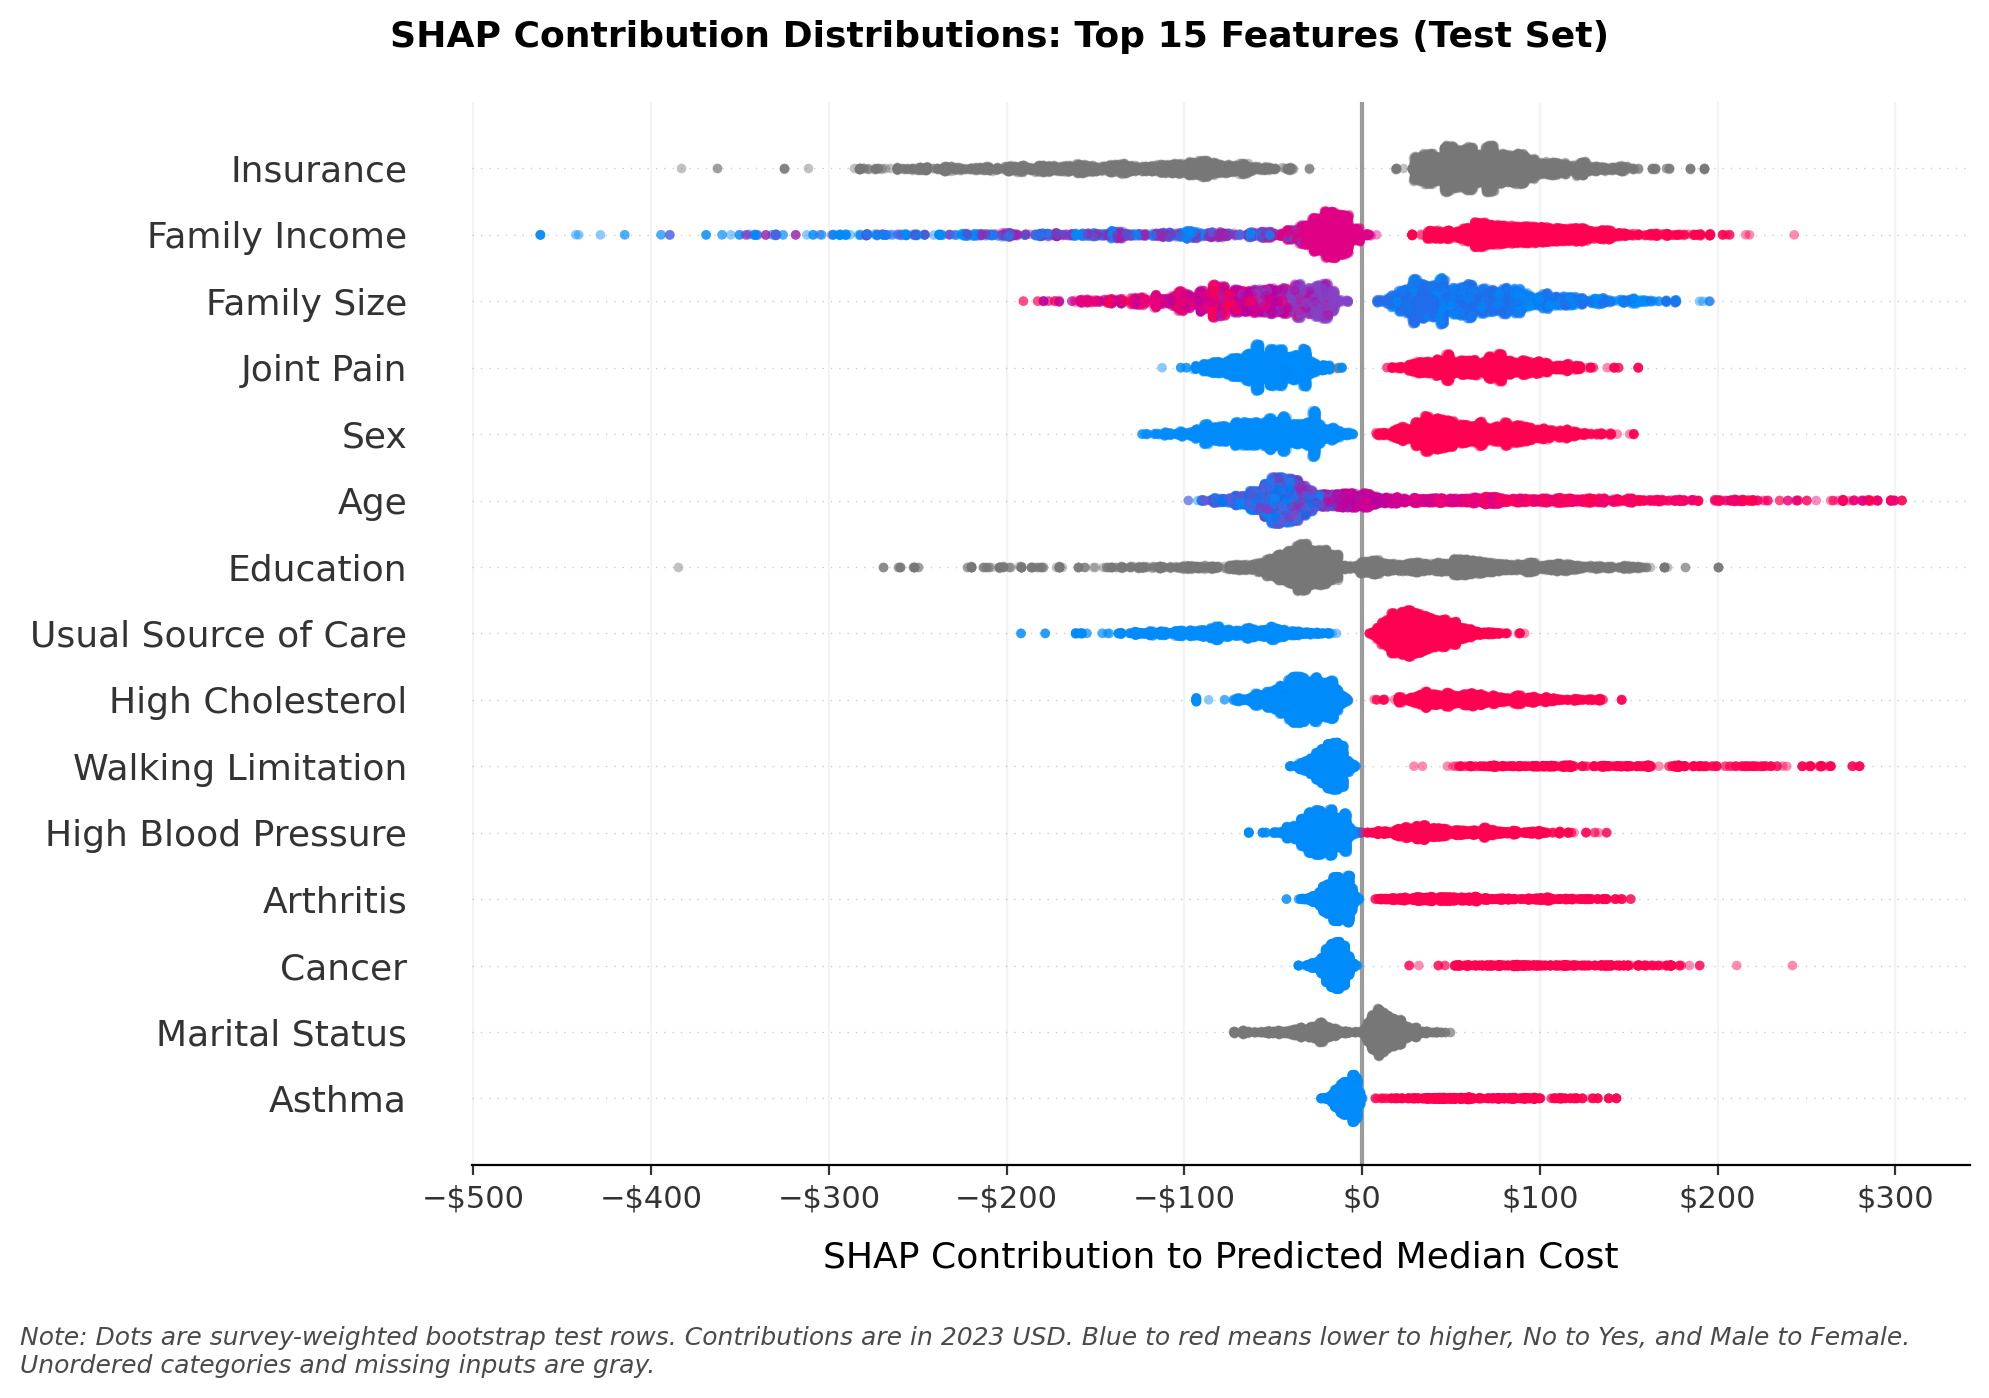
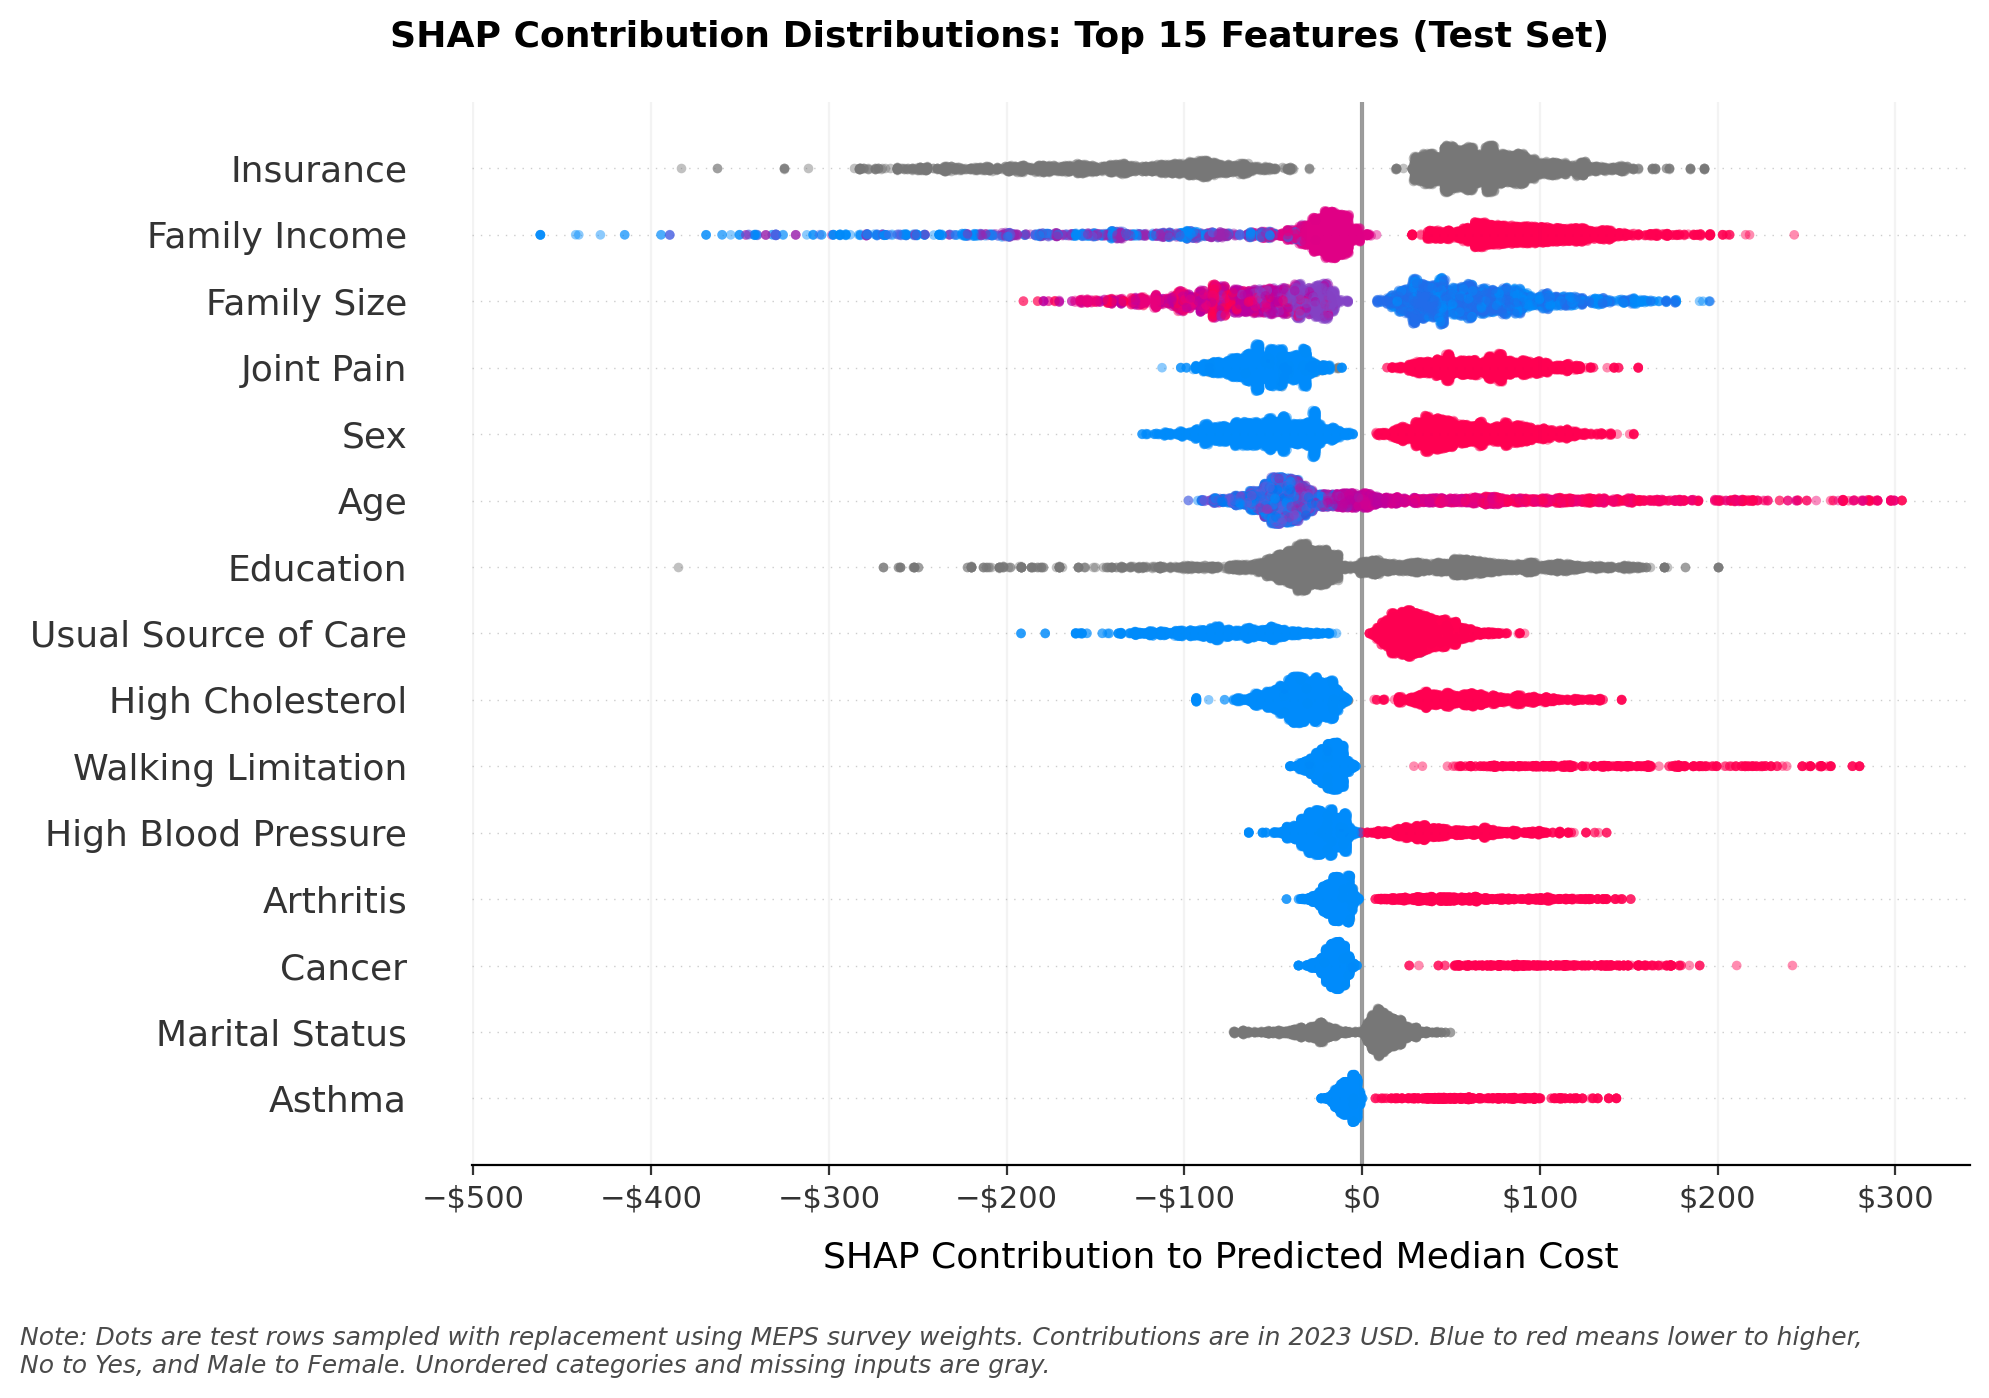
docs(eval): refine SHAP plot labels and notes
- Simplify the four complementary plot names
- Clarify survey weighting and bootstrap sampling
- Regenerate the contribution distribution and ordered-value plots

Changed region(s): [[0.0, 0.9535, 0.9351, 0.9843]]

diff --git a/notebooks/2_modeling.py b/notebooks/2_modeling.py
@@ -5533,9 +5533,9 @@ display(
 #     ℹ SHAP feature importance is examined with four complementary plots:
 #     <ul>
 #         <li><strong>Overall Feature Importance (Bar Plot):</strong> Shows which features matter most overall by ranking their mean absolute SHAP contributions (survey-weighted). It shows typical contribution size, not whether a feature usually moves estimates up or down.</li>
-#         <li><strong>Contribution Direction and Variation (Beeswarm Plot):</strong> Shows whether the most important features move estimates up or down and how much their contributions vary across people. For unordered categorical features, it doesn't show which category produced each contribution.</li>
-#         <li><strong>Category-Specific Direction and Variation (Interval Plot):</strong> Shows the median and percentile ranges for each category of the unordered categorical features (survey-weighted). This reveals which categories tend to move estimates up or down and how much contributions vary within each category.</li>
-#         <li><strong>Contribution Patterns Across Ordered Values (Dependence and Interval Plots):</strong> Zooms in on Age, Family Income, and Family Size, the three highest-ranked numerical or ordinal features. It shows how contributions change across their values, revealing gradients, nonlinear patterns, and plateaus that the broader beeswarm plot cannot show precisely.</li>
+#         <li><strong>Contribution Distributions (Beeswarm Plot):</strong> Shows whether features move estimates up or down and how much their contributions vary across people. For unordered categorical features, it doesn't show which category produced each contribution.</li>
+#         <li><strong>Contributions by Category (Interval Plot):</strong> Shows the median and percentile ranges for each category of the unordered categorical features (survey-weighted). This reveals which categories tend to move estimates up or down and how much contributions vary within each category.</li>
+#         <li><strong>Contributions Across Ordered Values (Dependence and Interval Plots):</strong> Zooms in on Age, Family Income, and Family Size, the three highest-ranked numerical or ordinal features. It shows how contributions change across their values, revealing gradients, nonlinear patterns, and plateaus that the broader beeswarm plot cannot show precisely.</li>
 #     </ul>
 # </div>
 #
@@ -5697,7 +5697,7 @@ plt.show()
 
 # %% [markdown]
 # <div style="background-color:#fff6e4; padding:15px; border-width:3px; border-color:#f5ecda; border-style:solid; border-radius:6px">
-#     <strong>Contribution Direction and Variation (Beeswarm Plot)</strong><br>
+#     <strong>Contribution Distributions (Beeswarm Plot)</strong><br>
 #     📌 Create a contribution distribution plot for the top 15 features. Because the beeswarm plot does not accept survey weights, use weighted bootstrap sampling with replacement so the displayed dot density approximates the U.S. adult population represented by MEPS.
 # </div>
 
@@ -5796,8 +5796,8 @@ fig.text(
     0.01,
     0.01,
     (
-        "Note: Dots are survey-weighted bootstrap test rows. Contributions are in 2023 USD. Blue to red means lower to higher, No to Yes, and Male to Female.\n"
-        "Unordered categories and missing inputs are gray."
+        "Note: Dots are test rows sampled with replacement using MEPS survey weights. Contributions are in 2023 USD. Blue to red means lower to higher,\n"
+        "No to Yes, and Male to Female. Unordered categories and missing inputs are gray."
     ),
     ha="left",
     va="bottom",
@@ -5833,7 +5833,7 @@ plt.show()
 
 # %% [markdown]
 # <div style="background-color:#fff6e4; padding:15px; border-width:3px; border-color:#f5ecda; border-style:solid; border-radius:6px">
-#     <strong>Category-Specific Direction and Variation (Interval Plot)</strong><br>
+#     <strong>Contributions by Category (Interval Plot)</strong><br>
 #     📌 Compare SHAP contributions for Insurance, Education, and Marital Status. Show the median and percentile ranges for each category (survey-weighted) so contribution direction and variation are easy to compare.
 # </div>
 
@@ -6001,7 +6001,7 @@ plt.show()
 
 # %% [markdown]
 # <div style="background-color:#fff6e4; padding:15px; border-width:3px; border-color:#f5ecda; border-style:solid; border-radius:6px">
-#     <strong>Contribution Patterns Across Ordered Values (Dependence and Interval Plots)</strong><br>
+#     <strong>Contributions Across Ordered Values (Dependence and Interval Plots)</strong><br>
 #     📌 Examine Age, Family Income, and Family Size in more detail. Use a dependence plot for Age and interval plots for Family Income and Family Size to show how SHAP contributions change across ordered values.
 # </div>
 
@@ -6178,7 +6178,7 @@ fig.supylabel(
     x=0.01,
 )
 fig.suptitle(
-    "SHAP Contribution Patterns for Key Ordered Features (Test Set)",
+    "SHAP Contributions Across Ordered Values (Test Set)",
     fontsize=13,
     fontweight="bold",
     x=0.5,
@@ -6188,9 +6188,9 @@ fig.text(
     0.01,
     0.01,
     (
-        "Note: Age dots are survey-weighted bootstrap test rows and the blue line shows the five-year rolling weighted median. "
-        "Family Income and Family Size dots show weighted medians,\n"
-        "blue bars show the 25th–75th percentiles, and gray lines the 10th–90th. Values are in 2023 USD."
+        "Note: Age dots are test rows sampled with replacement using MEPS survey weights, and the blue line shows the five-year rolling weighted median. "
+        "Family Income and Family Size dots\n"
+        "show weighted medians, blue bars show the 25th–75th percentiles, and gray lines the 10th–90th. Values are in 2023 USD."
     ),
     ha="left",
     va="bottom",
